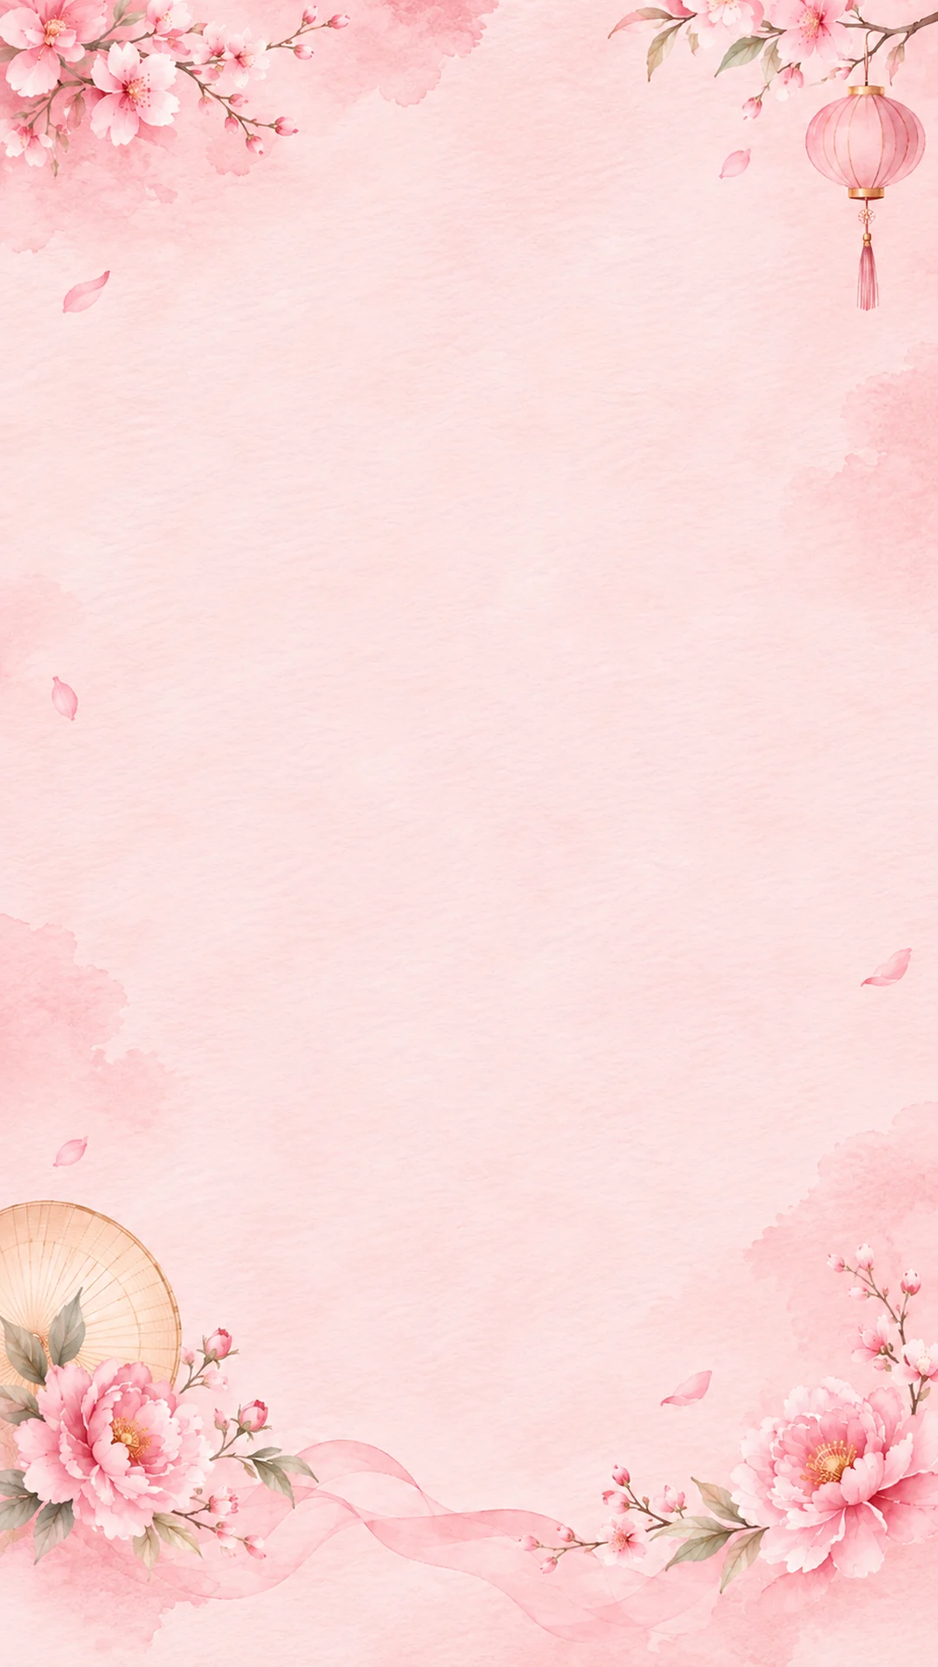
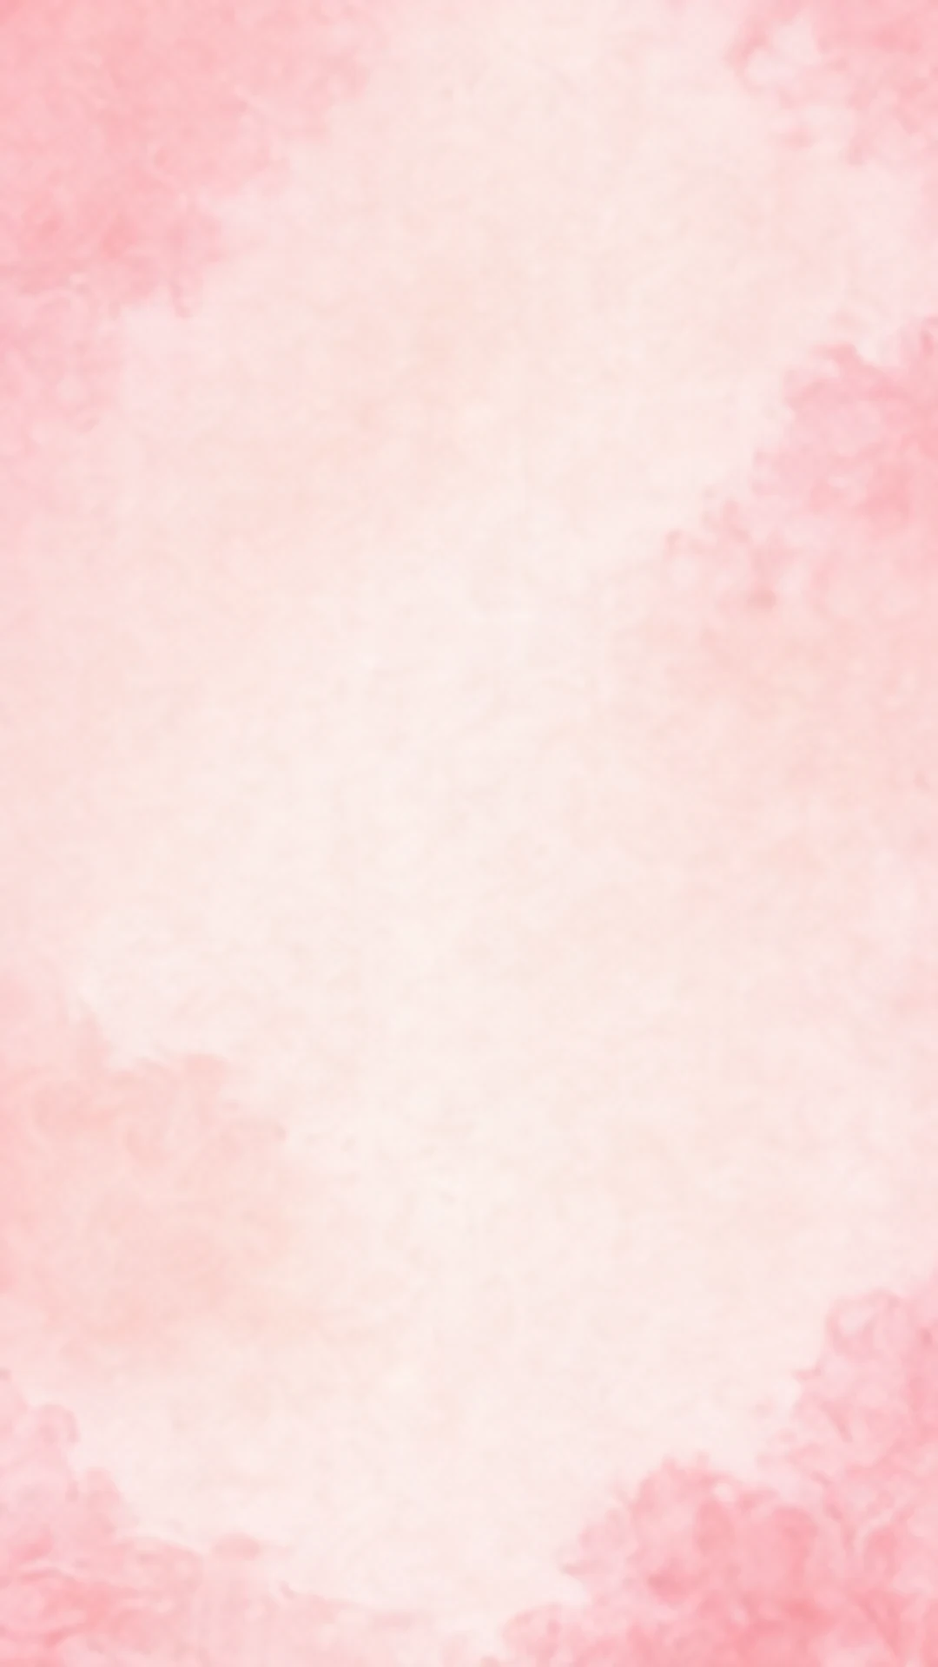
feat(hong-phuong): tích hợp asset B3 theo phương án A (nền sạch + trang trí tách lớp)
- Nền ngang/dọc mới: giấy màu nước sạch (HP-01, HP-02); bỏ mẹo che viền khung gắn cứng toạ độ.
- 4 cụm góc (cành đào, mẫu đơn + nón lá), đèn lồng chỉ ở khổ dọc, dải lụa đáy (front),
  2 cánh hoa rơi mới; vị trí theo bảng đặt asset trong hồ sơ thiết kế.
- Engine: thêm background.portraitZoom (nền dọc đứng yên).
- Hồ sơ thiết kế docs/templates/hong-phuong.md; quy ước nộp PNG → repo lưu WebP; _inbox/ cho ảnh thô.

Kiểm: tsc, check:assets 0 lỗi, /dev/layout 0 lỗi, MP4 9:16 3 vòng có nhạc 83.4s, 16:9 2 vòng 40.0s.

diff --git a/src/config/template-assets.ts b/src/config/template-assets.ts
@@ -71,6 +71,8 @@ export interface TemplateAssets {
     portrait?: string; // 9:16, từ 1080×1920
     /** Phóng to nhẹ theo vòng lặp (vd 0.03). Mặc định 0 */
     zoom?: number;
+    /** Ghi đè `zoom` riêng cho khung dọc (vd 0 = nền dọc đứng yên) */
+    portraitZoom?: number;
   };
   /** Lớp ở PHÍA SAU chữ/ảnh cưới */
   back?: ImageLayer[];
@@ -118,19 +120,68 @@ export const TEMPLATE_ASSETS: Record<string, TemplateAssets> = {
     background: {
       landscape: "/assets/hong-phuong/backgrounds/landscape.webp",
       portrait: "/assets/hong-phuong/backgrounds/portrait.webp",
-      zoom: 0.012,
+      zoom: 0.01,
+      portraitZoom: 0, // HP-02 đứng yên (hồ sơ B1.1)
     },
+    // Vị trí/cỡ theo bảng đặt asset B1.1 (docs hồ sơ hong-phuong). Cỡ = tỉ lệ khung: ngang H=1080, dọc H=1920.
     back: [
-      // Phượng hoàng mờ ở rìa phải, không đè lên chữ; ẩn trên khung dọc.
+      // HP-03 cành đào trên trái — 400×280 ngang, 260×182 dọc
       {
-        src: "/assets/hong-phuong/decorations/phoenix-pink.webp",
-        anchor: "tr", x: 0.98, y: 0.10, height: 0.3, alpha: 0.20,
-        motion: { sway: 0.008, breathe: 0.005, cycles: 2 },
-        portrait: { hide: true },
+        src: "/assets/hong-phuong/decorations/goc-tren-trai.webp",
+        anchor: "tl", x: 0, y: 0, height: 280 / 1080,
+        motion: { sway: 0.008, cycles: 2 },
+        portrait: { height: 182 / 1920 },
+      },
+      // HP-06 cành đào trên phải — 320×180 ngang, 204×115 dọc; lệch pha với HP-03
+      {
+        src: "/assets/hong-phuong/decorations/canh-tren-phai.webp",
+        anchor: "tr", x: 1, y: 0, height: 180 / 1080,
+        motion: { sway: 0.008, cycles: 2, phase: 2.2 },
+        portrait: { height: 115 / 1920 },
+      },
+      // HP-04 mẫu đơn + nón lá dưới trái (ngang) — 410×280
+      {
+        src: "/assets/hong-phuong/decorations/goc-duoi-trai.webp",
+        anchor: "bl", x: 0, y: 1, height: 280 / 1080, only: "landscape",
+        motion: { breathe: 0.005, cycles: 2 },
+      },
+      // HP-05 mẫu đơn + đào dưới phải (ngang) — 410×290
+      {
+        src: "/assets/hong-phuong/decorations/goc-duoi-phai.webp",
+        anchor: "br", x: 1, y: 1, height: 290 / 1080, only: "landscape",
+        motion: { breathe: 0.005, cycles: 2, phase: 3.1 },
+      },
+      // HP-04-P / HP-05-P cụm đáy khổ dọc — ~482×380 / ~477×390 (phóng to so với B1.1 để lấp dải đáy; phần cao nằm sát mép ngoài)
+      {
+        src: "/assets/hong-phuong/decorations/goc-duoi-trai-portrait.webp",
+        anchor: "bl", x: 0, y: 1, height: 380 / 1920, only: "portrait",
+        motion: { breathe: 0.004, cycles: 2 },
+      },
+      {
+        src: "/assets/hong-phuong/decorations/goc-duoi-phai-portrait.webp",
+        anchor: "br", x: 1, y: 1, height: 390 / 1920, only: "portrait",
+        motion: { breathe: 0.004, cycles: 2, phase: 3.1 },
+      },
+      // HP-07 đèn lồng — chỉ khổ dọc, treo tại x=970, cao 230
+      {
+        src: "/assets/hong-phuong/decorations/den-long.webp",
+        anchor: "tc", x: 970 / 1080, y: 0, height: 230 / 1920, only: "portrait",
+        motion: { sway: 0.012, cycles: 2, phase: 1.3 },
+      },
+    ],
+    front: [
+      // HP-08 dải lụa đáy — 980×80 ngang (y 1000–1080), 940×77 dọc
+      {
+        src: "/assets/hong-phuong/decorations/dai-lua-day.webp",
+        anchor: "bc", x: 0.5, y: 1, width: 980 / 1920,
+        motion: { driftX: 0.003, cycles: 1 },
+        portrait: { width: 940 / 1080 },
       },
     ],
     falling: [
-      { src: "/assets/hong-phuong/particles/petal-pink-01.webp", count: 8, size: [0.014, 0.027], drift: 36, loops: 1, seed: 73 },
+      { src: "/assets/hong-phuong/particles/petal-pink-01.webp", count: 5, size: [0.015, 0.03], drift: 36, loops: 1, seed: 73 },
+      { src: "/assets/hong-phuong/particles/canh-hong-02.webp", count: 4, size: [0.015, 0.03], drift: 40, loops: 1, seed: 91 },
+      { src: "/assets/hong-phuong/particles/canh-hong-03.webp", count: 3, size: [0.018, 0.034], drift: 32, loops: 1, seed: 117 },
     ],
   },
 };

diff --git a/src/lib/render/templates/hong-phuong.ts b/src/lib/render/templates/hong-phuong.ts
@@ -13,7 +13,7 @@ import type { VideoTemplate } from "../types";
 
 /**
  * Hồng Phượng — mẫu lễ ăn hỏi.
- * Hình minh hoạ (nền hồng đào, phượng, sen, dải lụa) là ẢNH, khai báo ở src/config/template-assets.ts
+ * Hình minh hoạ (nền giấy, cành đào, mẫu đơn, nón lá, đèn lồng, dải lụa) là ẢNH, khai báo ở src/config/template-assets.ts
  * (thư mục ảnh: public/assets/hong-phuong/). File này chỉ có màu chữ, nền dự phòng (gradient),
  * khung ảnh (hình học) và hạt lấp lánh.
  */
@@ -27,7 +27,7 @@ const sparks = makeLoopParticles(26, 71, { minSize: 3, maxSize: 7, maxLoops: 1, 
 export const hongPhuong: VideoTemplate = {
   id: "hong-phuong",
   name: "Hồng Phượng Ăn Hỏi",
-  description: "Nền hồng đào màu nước, phượng đỏ, sen hồng và dải lụa — dành cho lễ ăn hỏi",
+  description: "Giấy màu nước hồng đào, cành đào, mẫu đơn, nón lá và đèn lồng — dành cho lễ ăn hỏi",
   tier: "free",
   swatch: ["#fbd3d8", "#a8324c", "#8f0f1b"],
   colors: ["hong", "do"],
@@ -70,28 +70,7 @@ export const hongPhuong: VideoTemplate = {
     g.lineWidth = 1.5;
     rr(12, 10);
     g.stroke();
-    if (!rc.portrait && getAsset("/assets/hong-phuong/backgrounds/landscape.webp")) {
-      // che nét viền ở bốn góc nhiều hoa của nền mới (tọa độ tỉ lệ khung)
-      const hide = (cx: number, cy: number, rx: number, ry: number) => {
-        g.save();
-        g.globalCompositeOperation = "destination-out";
-        g.translate(cx * W, cy * H);
-        g.scale(rx * W, ry * H);
-        const k = g.createRadialGradient(0, 0, 0, 0, 0, 1);
-        k.addColorStop(0, "rgba(0,0,0,1)");
-        k.addColorStop(0.7, "rgba(0,0,0,1)");
-        k.addColorStop(1, "rgba(0,0,0,0)");
-        g.fillStyle = k;
-        g.beginPath();
-        g.arc(0, 0, 1, 0, TAU);
-        g.fill();
-        g.restore();
-      };
-      hide(0.08, 0.07, 0.13, 0.10);
-      hide(0.12, 0.93, 0.18, 0.13);
-      hide(0.89, 0.06, 0.18, 0.10);
-      hide(0.95, 0.90, 0.13, 0.14);
-    }
+    // Nền ngang mới (phương án A) là giấy sạch; hoa góc là lớp ảnh riêng vẽ SAU backdrop nên tự nằm trên viền.
     ctx.drawImage(scratchCanvas("hp-frame", W, H), 0, 0, W, H);
 
     const size = rc.portrait ? W * 0.375 : H * 0.3;

diff --git a/src/lib/render/layers.ts b/src/lib/render/layers.ts
@@ -45,7 +45,8 @@ export function drawAssetBackground(rc: RenderContext, id: string): boolean {
   if (!img) return false;
   const { ctx, W, H } = rc;
   const u = rc.t / rc.D;
-  const zoom = 1 + (spec.zoom ?? 0) * (0.5 + 0.5 * Math.sin(TAU * u));
+  const amount = rc.portrait ? spec.portraitZoom ?? spec.zoom ?? 0 : spec.zoom ?? 0;
+  const zoom = 1 + amount * (0.5 + 0.5 * Math.sin(TAU * u));
   const k = Math.max(W / img.width, H / img.height) * zoom;
   const w = img.width * k;
   const h = img.height * k;

diff --git a/CLAUDE.md b/CLAUDE.md
@@ -60,7 +60,7 @@ src/app/dev/frames, dev/export  trang kiểm thử (404 trên production)
   Engine vẽ qua `src/lib/render/layers.ts` (thứ tự: nền code → ảnh nền → back → cảnh chữ → front → falling → hạt của mẫu), nạp ảnh qua `src/lib/render/assets.ts`
   (đăng ký khi import `templates/index.ts`; `ensureFontsLoaded()` đợi ảnh tải xong; thiếu file → bỏ qua lớp). Hướng dẫn cho người dùng: `public/assets/README.md`.
   Nền ảnh cần RIÊNG bản ngang & dọc (thiếu hướng nào dùng nền code của mẫu). Ảnh nguồn: tự tạo bằng AI/ảnh có giấy phép; KHÔNG dùng asset của cinelove.
-- Mẫu đang dùng ảnh: hoa-dao-xuan (nền ngang), quan-ho-kinh-bac (sen), **hong-phuong** (mẫu ăn hỏi: nền hồng đào + lồng đèn góc trên trái + sen đôi góc dưới phải + chữ 囍 lớn, mờ, chìm ở GIỮA khung phía sau chữ [vẽ bằng font trong `hong-phuong.ts` qua hook mới `backdrop(rc)` của VideoTemplate — gọi SAU ảnh nền, TRƯỚC lớp back và các cảnh chữ, nên ảnh trang trí đè lên viền/chữ chìm chứ không bị đè; cùng hook này vẽ viền khung 2 nét mảnh hồng cách mép 3.5% cạnh ngắn; ở khổ ngang viền được làm mờ (destination-out trên canvas phụ) tại 2 cụm hoa đào đã nằm sẵn trong `nen.webp` để hoa nhìn như nằm TRÊN viền — toạ độ `hide(...)` gắn cứng theo ảnh nền, đổi ảnh nền thì phải chỉnh lại; cách đúng là tách cụm hoa thành PNG riêng nền trong suốt; không phải hình]; ảnh trong `public/assets/hong-phuong/`; khung dọc dùng chính nền ngang cắt giữa — nên bổ sung nền dọc riêng). `hong-phuong/long-den.webp` là bản đã TÁCH NỀN XÁM từ `quan-ho-kinh-bac/long_den.webp` của người dùng (bằng sharp: xoá màu 209,209,209 + khử viền). File thừa chưa dùng: `hong-phuong/phuong-hoang.webp`, `dai-lua-hong.webp` (vẫn dùng làm ornament "Lời cảm ơn"), `sen-hong.webp`, `sen-nu.webp`; `hoa_sen_hong_1.webp` trùng `hoa_sen_hong`. Các phần còn vẽ bằng code (liền anh/chị, tre, ao sen của quan-ho; toàn bộ mẫu khác) sẽ thay dần khi có ảnh.
+- Mẫu đang dùng ảnh: hoa-dao-xuan (nền ngang), quan-ho-kinh-bac (sen), **hong-phuong** [ĐÃ LÀM LẠI theo phương án A 2026-11-20 — xem docs/templates/hong-phuong.md; mô tả cũ dưới đây đã lỗi thời] (mẫu ăn hỏi: nền hồng đào + lồng đèn góc trên trái + sen đôi góc dưới phải + chữ 囍 lớn, mờ, chìm ở GIỮA khung phía sau chữ [vẽ bằng font trong `hong-phuong.ts` qua hook mới `backdrop(rc)` của VideoTemplate — gọi SAU ảnh nền, TRƯỚC lớp back và các cảnh chữ, nên ảnh trang trí đè lên viền/chữ chìm chứ không bị đè; cùng hook này vẽ viền khung 2 nét mảnh hồng cách mép 3.5% cạnh ngắn; ở khổ ngang viền được làm mờ (destination-out trên canvas phụ) tại 2 cụm hoa đào đã nằm sẵn trong `nen.webp` để hoa nhìn như nằm TRÊN viền — toạ độ `hide(...)` gắn cứng theo ảnh nền, đổi ảnh nền thì phải chỉnh lại; cách đúng là tách cụm hoa thành PNG riêng nền trong suốt; không phải hình]; ảnh trong `public/assets/hong-phuong/`; khung dọc dùng chính nền ngang cắt giữa — nên bổ sung nền dọc riêng). `hong-phuong/long-den.webp` là bản đã TÁCH NỀN XÁM từ `quan-ho-kinh-bac/long_den.webp` của người dùng (bằng sharp: xoá màu 209,209,209 + khử viền). File thừa chưa dùng: `hong-phuong/phuong-hoang.webp`, `dai-lua-hong.webp` (vẫn dùng làm ornament "Lời cảm ơn"), `sen-hong.webp`, `sen-nu.webp`; `hoa_sen_hong_1.webp` trùng `hoa_sen_hong`. Các phần còn vẽ bằng code (liền anh/chị, tre, ao sen của quan-ho; toàn bộ mẫu khác) sẽ thay dần khi có ảnh.
 - 11 mẫu gốc: hoa-dao-xuan(frame, vòm), trau-cau(frame + dải lụa titleBacking), hy-su-do-vang(emblem huy chương 囍), sen-ngoc(faded, emblem hoa sen khi không ảnh),
   mau-don(frame tròn), tu-dang(frame vòm), cam-tu-cau(frame bo góc), thu-vang(frame polaroid), ngoc-trai(caps, emblem vòng ngọc trai/monogram),
   thanh-lich(caps, fullbleed), hoang-kim(caps, emblem monogram/khung vàng).
@@ -109,6 +109,11 @@ node scripts/probe-export.mjs "<chrome.exe>" <profileDir> "http://localhost:3123
 Dùng thư mục profile Chrome trong scratchpad; xem ảnh chụp bằng tool Read.
 
 ## Trạng thái phiên gần nhất (cập nhật mỗi khi chuyển chat)
+- 2026-11-20 (Hồng Phượng B3, nhánh `design/hong-phuong-b3`, PR): quy trình ChatGPT chạy thật lần đầu. Hồ sơ đã duyệt: `docs/templates/hong-phuong.md`
+  (có bảng đặt asset). Nền ngang mới là giấy sạch (đã BỎ mẹo `hide(...)` che viền); 4 cụm góc, đèn lồng (chỉ dọc), lụa đáy (front), 2 cánh rơi
+  khai báo trong `template-assets.ts`; thêm `background.portraitZoom`. ChatGPT nộp PNG → Claude đổi WebP (sharp, q90). Ảnh thô để ở `_inbox/<id>/` (gitignore).
+  Asset B3 là bản cắt từ ảnh ghép + upscale ~3× → cần ChatGPT làm lại từng vật độ phân giải gốc (giữ tên file). Bài học: cấm ảnh ghép, 1 ảnh = 1 vật.
+  Kiểm: /dev/layout 0 lỗi; MP4 9:16 3 vòng có nhạc 83.4s; 16:9 2 vòng 40.0s. Tiếp theo: Quan Họ (phiếu QH, Đông Hồ) rồi Hoa Đào.
 - 2026-11-20 (Sprint 1 — vùng an toàn + bố cục chữ, nhánh `sprint-1-safe-area`, CHƯA commit):
   `src/lib/render/layout.ts`: SAFE (mép 5%), MIN_PX theo vai trò chữ, `drawText` (fillText + ghi khung bao khi bật `rc.probe`), `probeRect`,
   `fitInk` (đo khung glyph thật, kể cả nét uốn script & letterSpacing khi căn giữa), `fitLines` (thu tới ngưỡng → 2 dòng), `fitParagraph` (≤3 dòng, ngắt ở "·"), `stackLines`.

diff --git a/docs/templates/hong-phuong.md b/docs/templates/hong-phuong.md
@@ -1,0 +1,75 @@
+# Hồng Phượng Ăn Hỏi (`hong-phuong`)
+
+Trạng thái: đã duyệt 2026-11-20 (B1 + B1.1) · asset B3 bản nháp đã tích hợp, chờ thay bản độ phân giải gốc
+Loại lễ phù hợp: ăn hỏi (chính), dạm ngõ, đính hôn, vu quy, thành hôn
+Phiếu yêu cầu: [docs/asset-requests/HP-hong-phuong.md](../asset-requests/HP-hong-phuong.md) · Phương án A (nền sạch, trang trí tách riêng)
+
+## Concept — "Hồng Đào Giao Duyên"
+Không khí lễ ăn hỏi truyền thống miền Bắc: sắc hồng đào, mẫu đơn, nón lá, đèn lồng — sum vầy, trang trọng mà gần gũi.
+Màu nước thủ công trên giấy sáng; hoa và vật trang trí dồn về các góc như khu vườn bao quanh đôi uyên ương.
+Điểm nhận diện: góc hoa chăm chút tinh xảo đối lập với khoảng trống thanh lịch ở trung tâm.
+Hợp cả LED rạp cưới lẫn điện thoại: tránh đỏ gắt, hoạ tiết quá nhỏ, hiệu ứng cầu kỳ.
+
+## Bảng màu
+| Vai trò | Hex |
+|---|---|
+| Nền giấy sáng chủ đạo | `#FFF6F2` |
+| Nền hồng đào phụ / loang | `#FBE6E6` / `#F4CFD7` |
+| Mẫu đơn / cánh đào | `#E8A0B2` / `#EBAFBE` |
+| Lá xanh xám | `#91A89A` |
+| Vàng champagne (tiết chế) | `#D7B27D` |
+| Đỏ son tiết chế | `#B94D60` |
+| **Tiêu đề / tên (cố định)** | **`#A8324C`** |
+| **Nội dung (cố định)** | **`#6B2D3C`** |
+| **Nhấn (cố định)** | **`#C46A82`** |
+| Đường kẻ | `rgba(196,106,130,0.6)` |
+
+## Chất liệu & phong cách
+Giấy mỹ thuật thớ mịn + loang màu nước; hoa màu nước bán hiện thực; nón lá Việt đúng dáng; đèn lồng lụa không chữ;
+lụa hồng mỏng bán trong suốt. Tránh: 3D bóng nhựa, viền trắng quanh vật, đỏ-vàng rực, chữ giả do AI.
+
+## Font
+Tiêu đề & tên: `great-vibes` · Nội dung & ngày: `cormorant` (đúng mặc định của engine).
+
+## Bố cục & bảng đặt asset
+Viền khung code 2 nét (38px / 50px từ mép) nằm DƯỚI mọi lớp trang trí. Chữ 囍 chìm ở giữa do code vẽ.
+
+**Ngang 1920×1080** — vùng nội dung x 170–1750, y 100–990; hoa đậm chỉ ở x<170, x>1750, y<100, y>990.
+
+| Mã | File | Neo | Hiển thị | Chuyển động |
+|---|---|---|---|---|
+| HP-01 | `backgrounds/landscape.webp` | phủ kín | 1920×1080 | zoom 1% |
+| HP-03 | `decorations/goc-tren-trai.webp` | tl (0,0) | 400×280 | sway 0.008, 2 chu kỳ |
+| HP-06 | `decorations/canh-tren-phai.webp` | tr (1920,0) | 320×180 | sway 0.008, lệch pha |
+| HP-04 | `decorations/goc-duoi-trai.webp` | bl (0,1080) | 410×280 | breathe 0.005 |
+| HP-05 | `decorations/goc-duoi-phai.webp` | br (1920,1080) | 410×290 | breathe 0.005, lệch pha |
+| HP-08 | `decorations/dai-lua-day.webp` (front) | bc (960,1080) | 980×80 | driftX ~6px |
+| HP-07 | đèn lồng | — | không dùng ở khổ ngang | — |
+
+**Dọc 1080×1920** — vùng chữ y 1070–1630 phải sạch; hoạ tiết chính ở dải đáy; góc trên cao ≤260px.
+
+| Mã | File | Neo | Hiển thị | Chuyển động |
+|---|---|---|---|---|
+| HP-02 | `backgrounds/portrait.webp` | phủ kín | 1080×1920 | đứng yên (`portraitZoom: 0`) |
+| HP-03 | dùng chung | tl (0,0) | 260×182 | sway 0.008 |
+| HP-06 | dùng chung | tr (1080,0) | 204×115 | sway 0.008 |
+| HP-07 | `decorations/den-long.webp` | tc (970,0) | 84×230 | sway 0.012 quanh đỉnh dây |
+| HP-04-P | `decorations/goc-duoi-trai-portrait.webp` | bl (0,1920) | ~482×380 * | breathe 0.004 |
+| HP-05-P | `decorations/goc-duoi-phai-portrait.webp` | br (1080,1920) | ~477×390 * | breathe 0.004 |
+| HP-08 | dùng chung (front) | bc (540,1920) | 940×77 | driftX ~4px |
+
+\* B1.1 đề xuất 330×260 / 330×270; khi chụp thử thấy dải đáy trống, chủ dự án duyệt phóng to (phần cao của cụm nằm sát mép ngoài, không chạm chữ — kiểm bằng tên dài).
+
+Hạt rơi: `petal-pink-01`, `canh-hong-02` (cánh đào), `canh-hong-03` (cánh mẫu đơn), 16–36px, rơi thưa + xoay.
+Asset cũ giữ lại chưa dùng: `lantern-red`, `lotus-main`, `lotus-secondary`, `phoenix-pink`. `silk-ribbon` vẫn là ornament cảnh "Lời cảm ơn".
+
+## Nghiệm thu
+| Ngày | Ai | Kết quả | Ghi chú |
+|---|---|---|---|
+| 2026-11-20 | ChatGPT | B1, B1.1 | Hồ sơ concept/bố cục; bảng đặt asset |
+| 2026-11-20 | Chủ dự án | Duyệt B1.1 | Bỏ qua B2 (ảnh tham chiếu) |
+| 2026-11-20 | Claude | Tích hợp B3 (bản nháp) | /dev/layout 0 lỗi; MP4 9:16 3 vòng có nhạc = 83.4s, 16:9 2 vòng = 40.0s |
+
+**Còn nợ:** các trang trí và nền dọc được ChatGPT cắt từ một ảnh ghép rồi upscale ~3× (nền dọc ~6×) → có thể mềm trên TV Full HD,
+quầng sáng nhẹ quanh mép, HP-05/HP-06 dính mẩu vật bên cạnh ở mép trái. Cần tạo lại từng vật ở độ phân giải gốc (giữ nguyên tên file → không phải sửa code).
+Giấy phép mọi asset mới: `unverified` cho tới khi chủ dự án xác nhận.

diff --git a/docs/asset-requests/HUONG-DAN-CHATGPT.md b/docs/asset-requests/HUONG-DAN-CHATGPT.md
@@ -58,22 +58,16 @@ Bắt đầu bằng B1.
 - **Nền trong suốt:** yêu cầu rõ *"PNG, transparent background, isolated object, no shadow on ground, no frame"*. Kiểm tra trước khi nhận: mở ảnh trên nền tối, không được có viền trắng hay ô cờ giả.
 - **Kích thước:** ChatGPT thường xuất 1536×1024 hoặc 1024×1536. Muốn có nền 16:9 thì cắt ra 1536×864 rồi upscale ×1.25 lên 1920×1080 bằng công cụ upscale AI, không phóng thô. Ghi kích thước gốc vào `nativeDimensions`.
 - **Đồng nhất:** mỗi lần tạo asset, nhắc lại *"theo đúng phong cách ảnh tham chiếu đã duyệt, cùng bảng màu <hex>"*. Đính kèm lại ảnh tham chiếu nếu ChatGPT bắt đầu lệch.
-- **Một vật mỗi ảnh:** đừng xin "bộ 5 bông sen" trong một ảnh rồi tự cắt. Xin từng bông.
+- **Một vật mỗi ảnh:** đừng xin "bộ 5 bông sen" trong một ảnh rồi tự cắt. Xin từng bông. Bài học Hồng Phượng B3: ảnh ghép rồi cắt ra chỉ còn ~400px, phải phóng ×3 và dính mẩu vật bên cạnh.
 - **Hạt rơi (cánh hoa, lá):** vật ở chính giữa, cắt sát, nhiều biến thể nhỏ khác nhau.
 - **Nền:** xin rõ *"empty center for text, decorations only in corners, no text, no letters, no calligraphy, no watermark"*. AI hay tự chèn chữ giả, cần soi kỹ.
 
 ## 5. Gói bàn giao cho Claude
 
-Một file zip cho mỗi mẫu, cấu trúc **giống hệt** thư mục trong repo:
+**Định dạng trong repo: WebP** (nền: WebP không alpha; trang trí/hạt: WebP có alpha). ChatGPT Image chỉ tải về được PNG,
+nên **không cần ChatGPT tự đổi đuôi**: cứ nộp PNG gốc lớn nhất, Claude chuyển sang WebP (sharp), đặt tên, cập nhật manifest.
 
-```text
-<id-mau>.zip
-  backgrounds/landscape.webp
-  backgrounds/portrait.webp
-  decorations/*.webp          (kể cả ornament-*.webp)
-  particles/*.webp
-  handoff.md                  bảng bàn giao (file, lớp, neo, x/y, cỡ, chuyển động)
-  manifest-entries.json       các mục JSON theo mẫu trong quy cách chung
-```
+Cách nộp đơn giản nhất: tải từng ảnh về `_inbox/<id-mau>/` (thư mục bị git bỏ qua), đặt tên theo mã asset
+(`HP-03.png`…), rồi báo Claude. Kèm bảng đặt asset (neo, x/y, cỡ, chuyển động) nếu khác hồ sơ đã duyệt.
 
-Ảnh gốc khổ lớn, bản nháp và ảnh tham chiếu **không đưa vào zip**. Lưu chúng ở Google Drive theo thư mục `<id-mau>/goc/` để giữ làm bằng chứng nguồn gốc. Repo chỉ chứa bản đã duyệt.
+Ảnh gốc khổ lớn và ảnh tham chiếu nên lưu thêm ở Google Drive theo thư mục `<id-mau>/goc/` để giữ làm bằng chứng nguồn gốc. Repo chỉ chứa bản WebP đã duyệt.

diff --git a/docs/asset-requests/00-QUY-CACH-CHUNG.md b/docs/asset-requests/00-QUY-CACH-CHUNG.md
@@ -71,7 +71,7 @@ Hai khổ: **ngang 16:9 = 1920×1080** và **dọc 9:16 = 1080×1920**.
 |---|---|---|---|---|
 | Nền ngang | `backgrounds/landscape.webp` | WebP, không alpha | đúng 1920×1080 | ≤ 400 KB |
 | Nền dọc | `backgrounds/portrait.webp` | WebP, không alpha | đúng 1080×1920 | ≤ 400 KB |
-| Trang trí (back/front) | `decorations/` | WebP có alpha (hoặc PNG) | cạnh dài ≈ 2× cỡ hiển thị lớn nhất, ≤ 1600px | ≤ 300 KB |
+| Trang trí (back/front) | `decorations/` | WebP có alpha | cạnh dài ≈ 2× cỡ hiển thị lớn nhất, ≤ 1600px | ≤ 300 KB |
 | Hoạ tiết phân cách | `decorations/ornament-<tên>.webp` | WebP alpha | rộng ≈ 2× cỡ hiển thị | ≤ 150 KB |
 | Ảnh rơi | `particles/` | WebP alpha | 128–256 px, vật ở chính giữa | ≤ 20 KB |
 
